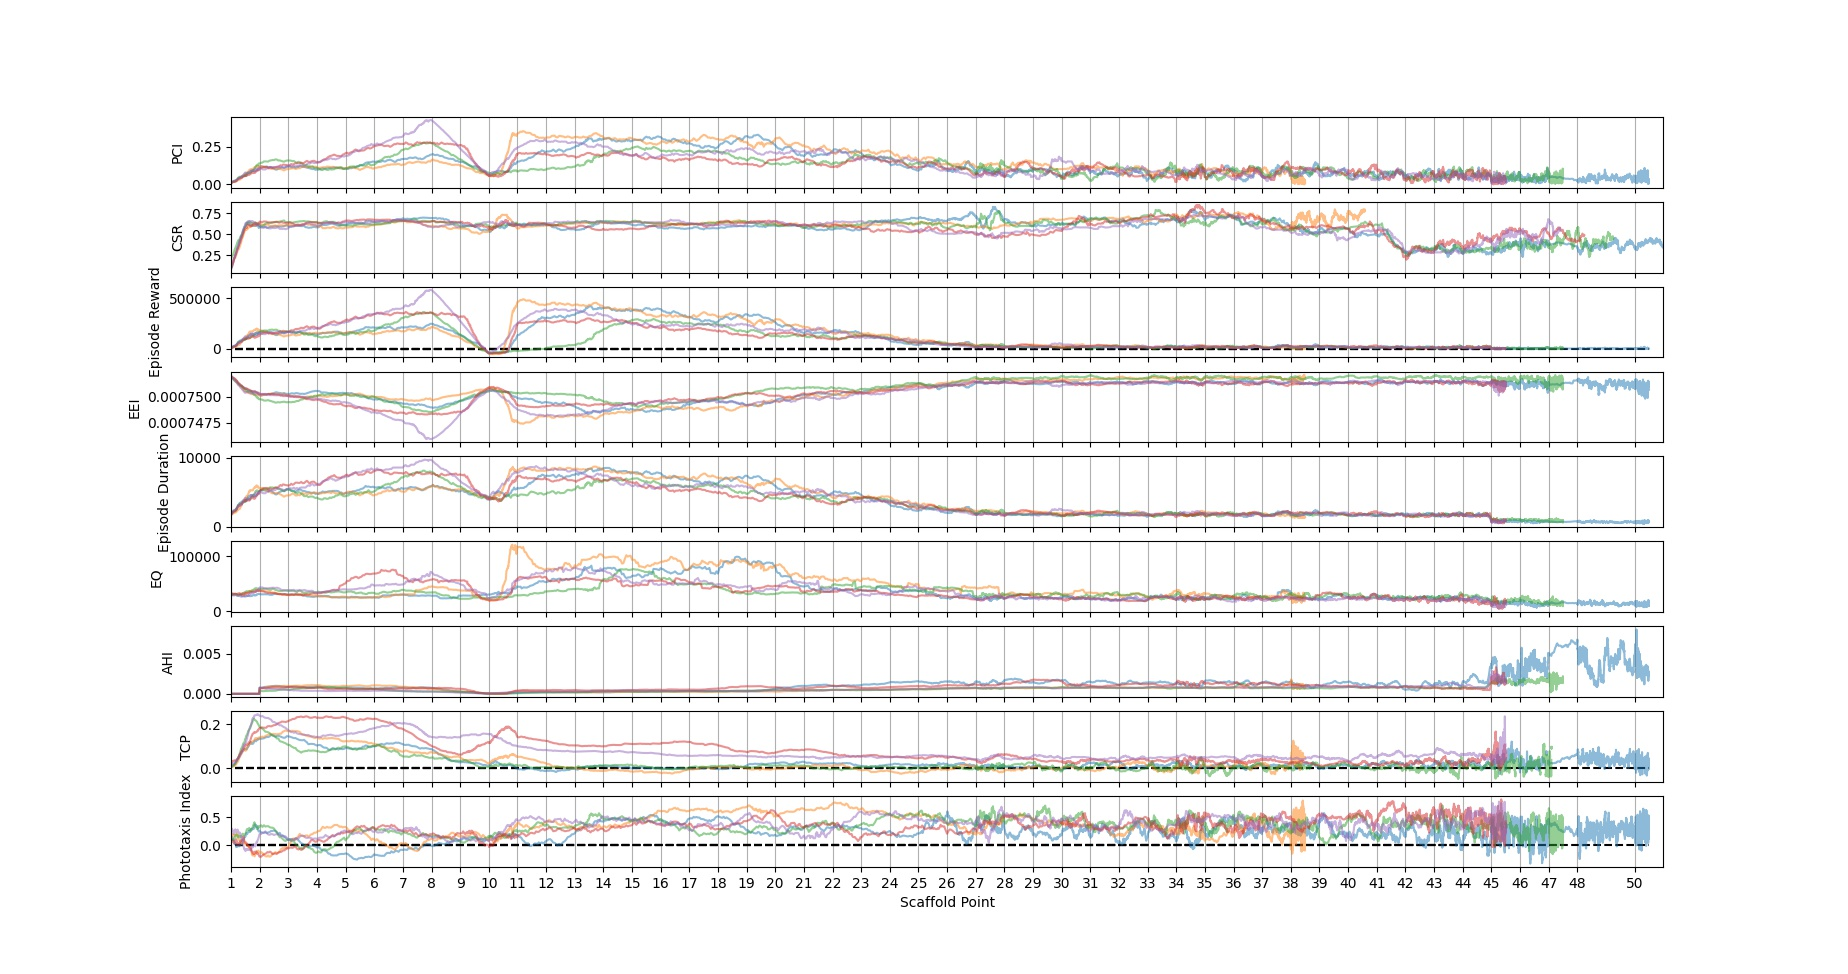
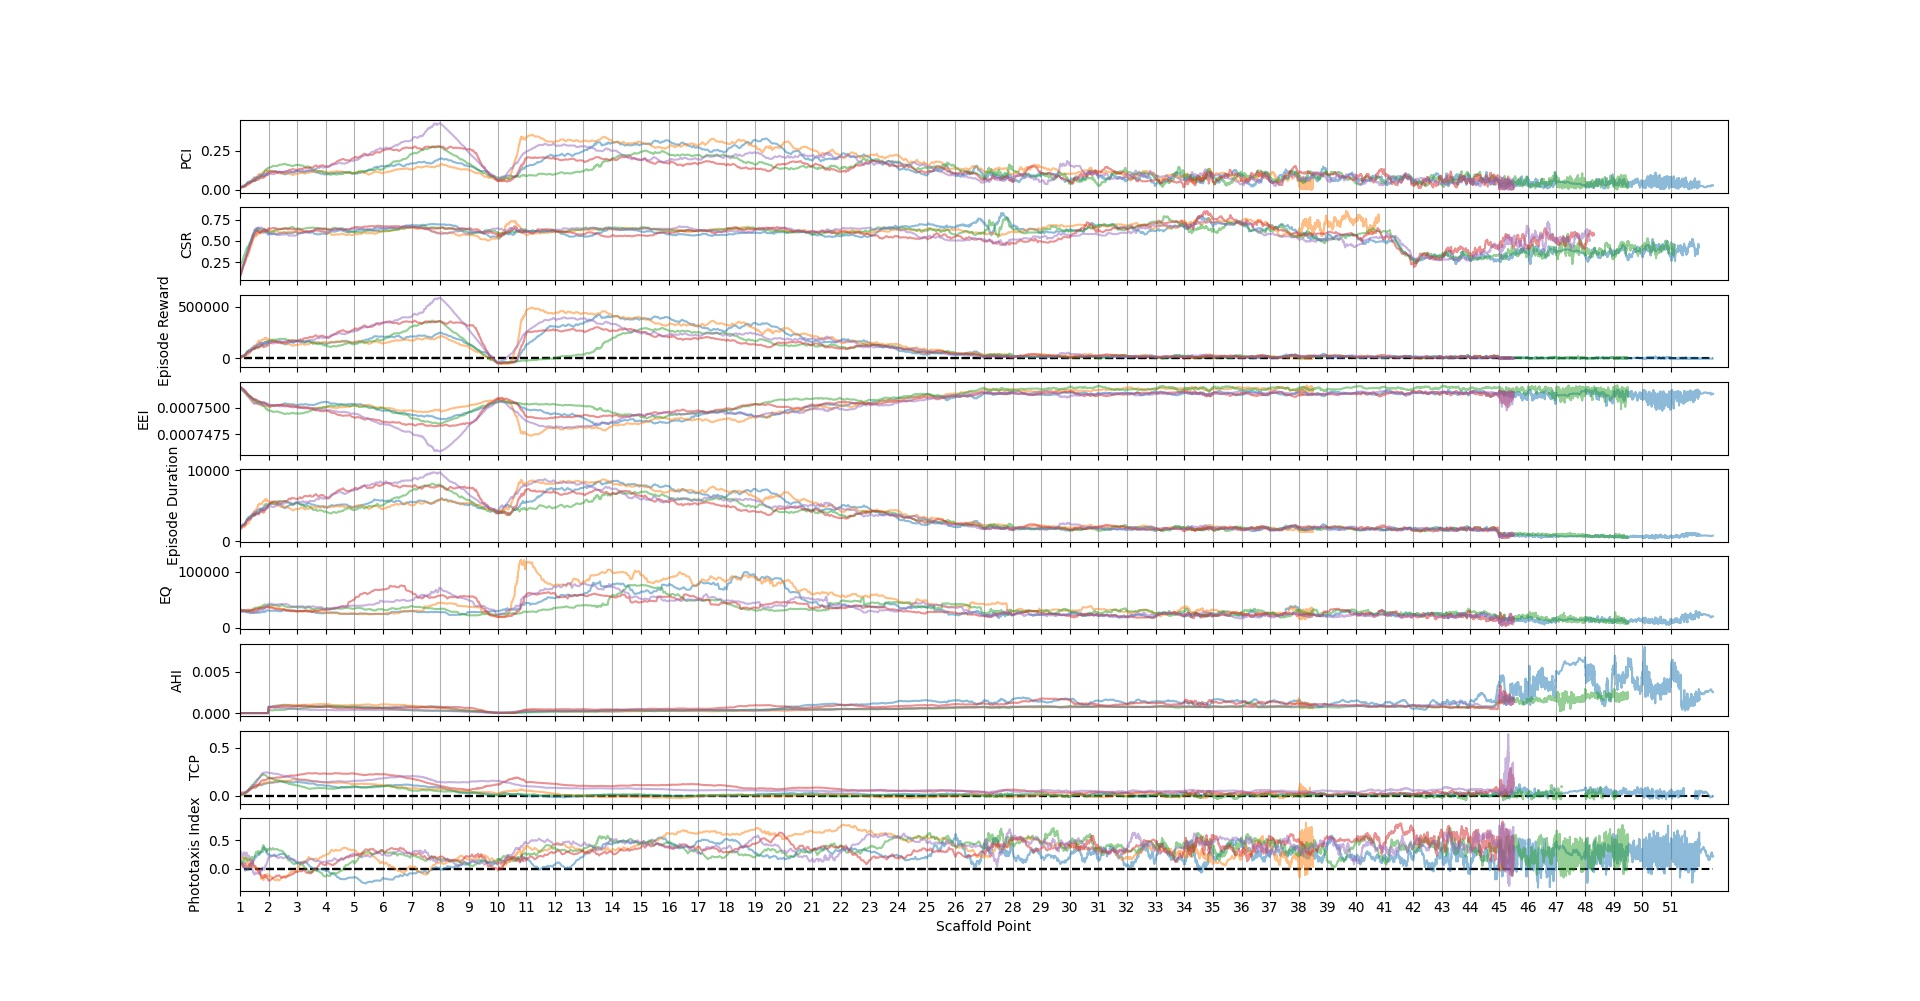
Updated action mask script, as well as display. Fixed metric plot. Fixed bug of scaffold oversaving

diff --git a/Environment/Action_Space/action_space_display_comparison.py b/Environment/Action_Space/action_space_display_comparison.py
@@ -130,6 +130,10 @@ def display_labelled_marques_bouts():
 
 def display_labelled_marques_bouts_with_dists(env_variables):
     res = 400
+    dis_lim = [0, 15]
+    ang_lim = [-1, 4]
+
+
     distances, angles, labels = get_all_bouts()
     actions = ["Slow2", "RT", "sCS", "J-Turn", "C-Start", "AS"]
     # action_colours = [(0, 0, 1), (0, 1, 0), (1, 0, 0), (1, 1, 0), (1, 0, 0.5), (1, 1, 1)]
@@ -140,10 +144,10 @@ def display_labelled_marques_bouts_with_dists(env_variables):
     # Inverted, for inversion operation below
     new_action_colours = [(1, 1, 0), (1, 0, 1), (0, 1, 1), (0, 0, 1), (0, 1, 0.5), (0.8, 0.8, 0.8), (0, 0, 1)]
 
-    # fig, axs = plt.subplots(figsize=(10, 10))
+    fig, axs = plt.subplots(figsize=(10, 10))
 
-    impulse_range = np.linspace(0, 50/3.4452532909386484, res)
-    angle_range = np.linspace(0, 5, res)
+    impulse_range = np.linspace(dis_lim[0], dis_lim[1], res)
+    angle_range = np.linspace(ang_lim[0], ang_lim[1], res)
     X, Y = np.meshgrid(impulse_range, angle_range)
     X_, Y_ = np.expand_dims(X, 2), np.expand_dims(Y, 2)
     full_grid = np.concatenate((X_, Y_), axis=2).reshape((-1, 2))
@@ -175,7 +179,7 @@ def display_labelled_marques_bouts_with_dists(env_variables):
         energy_cost = calculate_energy_cost(env_variables, impulse, mean[1]) * 10e6
         # energy_cost = round(energy_cost, 2-int(floor(log10(abs(energy_cost))))-1)
         energy_cost = round(energy_cost,)
-        # axs.text(mean[0], mean[1], str(energy_cost), color="black", ha='center', fontsize=8)#new_action_colours[a_n])
+        axs.text(mean[0], mean[1], str(energy_cost), color="black", ha='center', fontsize=8)#new_action_colours[a_n])
         # axs.scatter(mean[0], mean[1], marker="x", s=100, color=[new_action_colours[a_n]])
 
     pdf = np.flip(pdf, 0)
@@ -188,38 +192,43 @@ def display_labelled_marques_bouts_with_dists(env_variables):
 
     # Add PPO action space outline
     kde, threshold = produce_action_mask()
-    full_grid[0] *= 3.4452532909386484
+    full_grid[0] *= 3.4452532909386484  # Convert to impulses.
     tested_region = kde(full_grid).reshape((res, res))
     accepted_region = (tested_region >= threshold) * 0.2
     accepted_region = np.flip(accepted_region, 0)
 
+    # If necessary, reflect accepted region
+    if ang_lim[0] < 0:
+        index_at_zero = int(res * abs(ang_lim[0])/(ang_lim[1] - ang_lim[0]))
+        upper_region = accepted_region[-index_at_zero*2:-index_at_zero, :]
+        accepted_region[-index_at_zero:, :] = np.flip(upper_region, 0)
+
     pdf -= np.expand_dims(accepted_region, 2)
     pdf = np.clip(pdf, 0, 1)
 
-    # axs.imshow(pdf, extent=[0, 12, -0.5, 2], aspect="auto")
-    plt.imshow(pdf, extent=[0, 50/3.4452532909386484, 0, 5], aspect="auto")
-    plt.show()
-    # for i, l in enumerate(set(labels)):
-    #     axs.scatter(distances[labels == l], angles[labels == l], alpha=0.1, color=action_colours[i], marker="x")
-    #     axs.scatter(distances[labels == l], -angles[labels == l], alpha=0.1, color=action_colours[i], marker="x")
+    axs.imshow(pdf, extent=[dis_lim[0], dis_lim[1], ang_lim[0], ang_lim[1]], aspect="auto")
+
+    for i, l in enumerate(set(labels)):
+        axs.scatter(distances[labels == l], angles[labels == l], alpha=0.1, color=action_colours[i], marker="x")
+        axs.scatter(distances[labels == l], -angles[labels == l], alpha=0.1, color=action_colours[i], marker="x")
 
     # Build legend
-    # slow2_legend = mpatches.Patch(color=action_colours[0], label='Slow2')
-    # rt_legend = mpatches.Patch(color=action_colours[1], label='RT')
-    # sCS_legend = mpatches.Patch(color=action_colours[2], label='sCS')
-    # j_turn_legend = mpatches.Patch(color=action_colours[3], label='J-turn')
-    # c_start_legend = mpatches.Patch(color=action_colours[4], label='C-Start')
-    # as_legend = mpatches.Patch(color=action_colours[5], label='AS')
-    #
-    # axs.legend(handles=[slow2_legend, rt_legend, sCS_legend, j_turn_legend, c_start_legend, as_legend,])
+    slow2_legend = mpatches.Patch(color=action_colours[0], label='Slow2')
+    rt_legend = mpatches.Patch(color=action_colours[1], label='RT')
+    sCS_legend = mpatches.Patch(color=action_colours[2], label='sCS')
+    j_turn_legend = mpatches.Patch(color=action_colours[3], label='J-turn')
+    c_start_legend = mpatches.Patch(color=action_colours[4], label='C-Start')
+    as_legend = mpatches.Patch(color=action_colours[5], label='AS')
 
-    # axs.set_xlabel("Distance (mm)")
-    # axs.set_ylabel("Angle (radians)")
-    # axs.set_xlim(0, 12)
-    # axs.set_ylim(-0.5, 2)
-    # plt.savefig("../../Analysis-Output/Action-Space/action_space_comparison.png")
-    # plt.clf()
-    # plt.close()
+    axs.legend(handles=[slow2_legend, rt_legend, sCS_legend, j_turn_legend, c_start_legend, as_legend,])
+
+    axs.set_xlabel("Distance (mm)")
+    axs.set_ylabel("Angle (radians)")
+    axs.set_xlim(dis_lim[0], dis_lim[1])
+    axs.set_ylim(ang_lim[0], ang_lim[1])
+    plt.savefig("../../Analysis-Output/Action-Space/action_space_comparison.png")
+    plt.clf()
+    plt.close()
 
 
 if __name__ == "__main__":

diff --git a/Analysis/Training/plot_metrics_newest.py b/Analysis/Training/plot_metrics_newest.py
@@ -92,7 +92,6 @@ def get_metric_name(metric_label):
         # metric_name = "Prey Capture Rate (fraction caught per step)"
         metric_name = "PCR"
 
-
     elif metric_label == "prey capture index (fraction caught)":
         # metric_name = "Prey Capture Index (fraction caught)"
         metric_name = "PCI"
@@ -138,18 +137,28 @@ def get_metric_name(metric_label):
 
 
 def remove_repeated_switching_points(scaffold_switching_points):
+    """Removes switching points - chooses to keep those of a later episode."""
+
     cleaned_scaffold_switching_points = []
     for model_switching_points in scaffold_switching_points:
+        new_model_switching_points = []
+
         config_nums = [m[1] for m in model_switching_points]
-        to_delete = []
-        for i, c in enumerate(config_nums):
-            if i > 0:
-                if c == model_switching_points[i - 1][1]:
-                    to_delete.append(i - 1)
-                    print("Removing repeated")
-        for d in reversed(to_delete):
-            del model_switching_points[d]
-        cleaned_scaffold_switching_points.append(model_switching_points)
+        reduced_config_nums = list(set(config_nums))
+
+        for c in reduced_config_nums:
+            switching_points = [s[0] for s in model_switching_points if s[1] == c]
+            new_model_switching_points.append([max(switching_points), c])
+
+        # to_delete = []
+        # for i, c in enumerate(config_nums):
+        #     if i > 0:
+        #         if c == model_switching_points[i - 1][1]:
+        #             to_delete.append(i - 1)
+        #             print("Removing repeated")
+        # for d in reversed(to_delete):
+        #     del model_switching_points[d]
+        cleaned_scaffold_switching_points.append(new_model_switching_points)
     return cleaned_scaffold_switching_points
 
 
@@ -228,7 +237,7 @@ def plot_multiple_metrics_multiple_models(model_list, metrics, window, interpola
     inset_metric_vals = []
     metric_index = None
 
-    fig, axs = plt.subplots(num_metrics, 1, figsize=(30, int(12 * num_metrics)), sharex=True)
+    fig, axs = plt.subplots(num_metrics, 1, figsize=(50, int(12 * num_metrics)), sharex=True)
     for model in ordered_chosen_model_data_rolling_averages:
         for i, metric in enumerate(metrics):
             metric_name = get_metric_name(metric)
@@ -266,13 +275,14 @@ def plot_multiple_metrics_multiple_models(model_list, metrics, window, interpola
 
     axs[-1].set_xlabel("Scaffold Point")
     sc = np.concatenate(([np.array(s) for s in scaffold_switching_points]))
-    axs[-1].set_xticks([int(t) for t in np.linspace(0, np.max(sc[:, 1]))])
+    scaffold_indices = [t for t in range(0, int(np.max(sc[:, 1])))]
+    axs[-1].set_xticks(scaffold_indices)
     axs[-1].set_xlim(1, np.max(sc[:, 1]) + 1)
 
     if show_inset is not None:
         inset_ylim = axs[metric_index].get_ylim()
 
-    plt.savefig(f"Plots/{figure_name}.jpg")
+    plt.savefig(f"../../Analysis-Output/Training/{figure_name}.jpg")
     plt.clf()
     plt.close()
 
@@ -382,10 +392,9 @@ if __name__ == "__main__":
                           ]
     plot_multiple_metrics_multiple_models(dqn_models, chosen_metrics_dqn, window=40, interpolate_scaffold_points=True,
                                           figure_name="dqn_beta", scaled_window=False,
-                                          show_inset=["capture success rate",
-                                                      10])  # , key_scaffold_points=[10, 16, 31])
-    plot_multiple_metrics_multiple_models(dqn_models_mod, chosen_metrics_dqn_mod, window=40, interpolate_scaffold_points=True,
-                                          figure_name="dqn_beta_mod")#, key_scaffold_points=[10, 16, 31])
+                                          show_inset=["capture success rate", 10])  # , key_scaffold_points=[10, 16, 31])
+    # plot_multiple_metrics_multiple_models(dqn_models_mod, chosen_metrics_dqn_mod, window=40, interpolate_scaffold_points=True,
+    #                                       figure_name="dqn_beta_mod")#, key_scaffold_points=[10, 16, 31])
     # plot_multiple_metrics_multiple_models(ppo_models, chosen_metrics_ppo, window=40, interpolate_scaffold_points=True,
     #                                       figure_name="ppo_beta")
     # plot_multiple_metrics_multiple_models(ppo_models_mod, chosen_metrics_ppo_mod, window=40, interpolate_scaffold_points=True,

diff --git a/Environment/Action_Space/Bout_classification/action_masking.py b/Environment/Action_Space/Bout_classification/action_masking.py
@@ -91,23 +91,23 @@ def produce_action_mask():
     best_threshold = [0.0014800148001480014, 406.0]
     print(best_threshold)
 
-    plt.imshow(pdf, extent=[0, 50, 0, 5])
-    plt.scatter(impulses, angles, alpha=0.01)
-    plt.savefig("PDF vals 2.png")
-    plt.clf()
-    plt.close()
-
-    plt.imshow(pdf, extent=[0, 50, 0, 5])
-    plt.savefig("PDF vals.png")
-    plt.clf()
-    plt.close()
-
-    pdf[pdf > best_threshold[0]] = 1
-    pdf[pdf < 1] = 0
-    plt.imshow(pdf,  extent=[0, 50, 0, 5], aspect="auto")
-    plt.savefig("PDF vals 3.png")
-    plt.clf()
-    plt.close()
+    # plt.imshow(pdf, extent=[0, 50, 0, 5])
+    # plt.scatter(impulses, angles, alpha=0.01)
+    # plt.savefig("PDF vals 2.png")
+    # plt.clf()
+    # plt.close()
+    #
+    # plt.imshow(pdf, extent=[0, 50, 0, 5])
+    # plt.savefig("PDF vals.png")
+    # plt.clf()
+    # plt.close()
+    #
+    # pdf[pdf > best_threshold[0]] = 1
+    # pdf[pdf < 1] = 0
+    # plt.imshow(pdf,  extent=[0, 50, 0, 5], aspect="auto")
+    # plt.savefig("PDF vals 3.png")
+    # plt.clf()
+    # plt.close()
 
     return kde, best_threshold[0]
 

diff --git a/Services/training_service.py b/Services/training_service.py
@@ -147,12 +147,14 @@ class TrainingService(BaseService):
             if self.configuration_index < self.total_configurations:
                 self.check_update_configuration()
             elif self.configuration_index == self.total_configurations:
+                self.switched_configuration = False
                 print("Reached final config...")
                 if len(self.last_episodes_prey_caught) >= self.min_scaffold_interval:
                     # if np.mean(self.last_episodes_predators_avoided) / self.environment_params["probability_of_predator"] \
                     #         > self.finished_conditions["PAI"] \
                     #         and np.mean(self.last_episodes_prey_caught)/self.environment_params["prey_num"] \
                     #         > self.finished_conditions["PCI"]:
+
                     if np.mean(self.last_episodes_predators_avoided) / self.environment_params["probability_of_predator"] \
                             > self.finished_conditions["PAI"] \
                             and np.mean(self.last_episodes_prey_caught)/self.simulation.available_prey \
